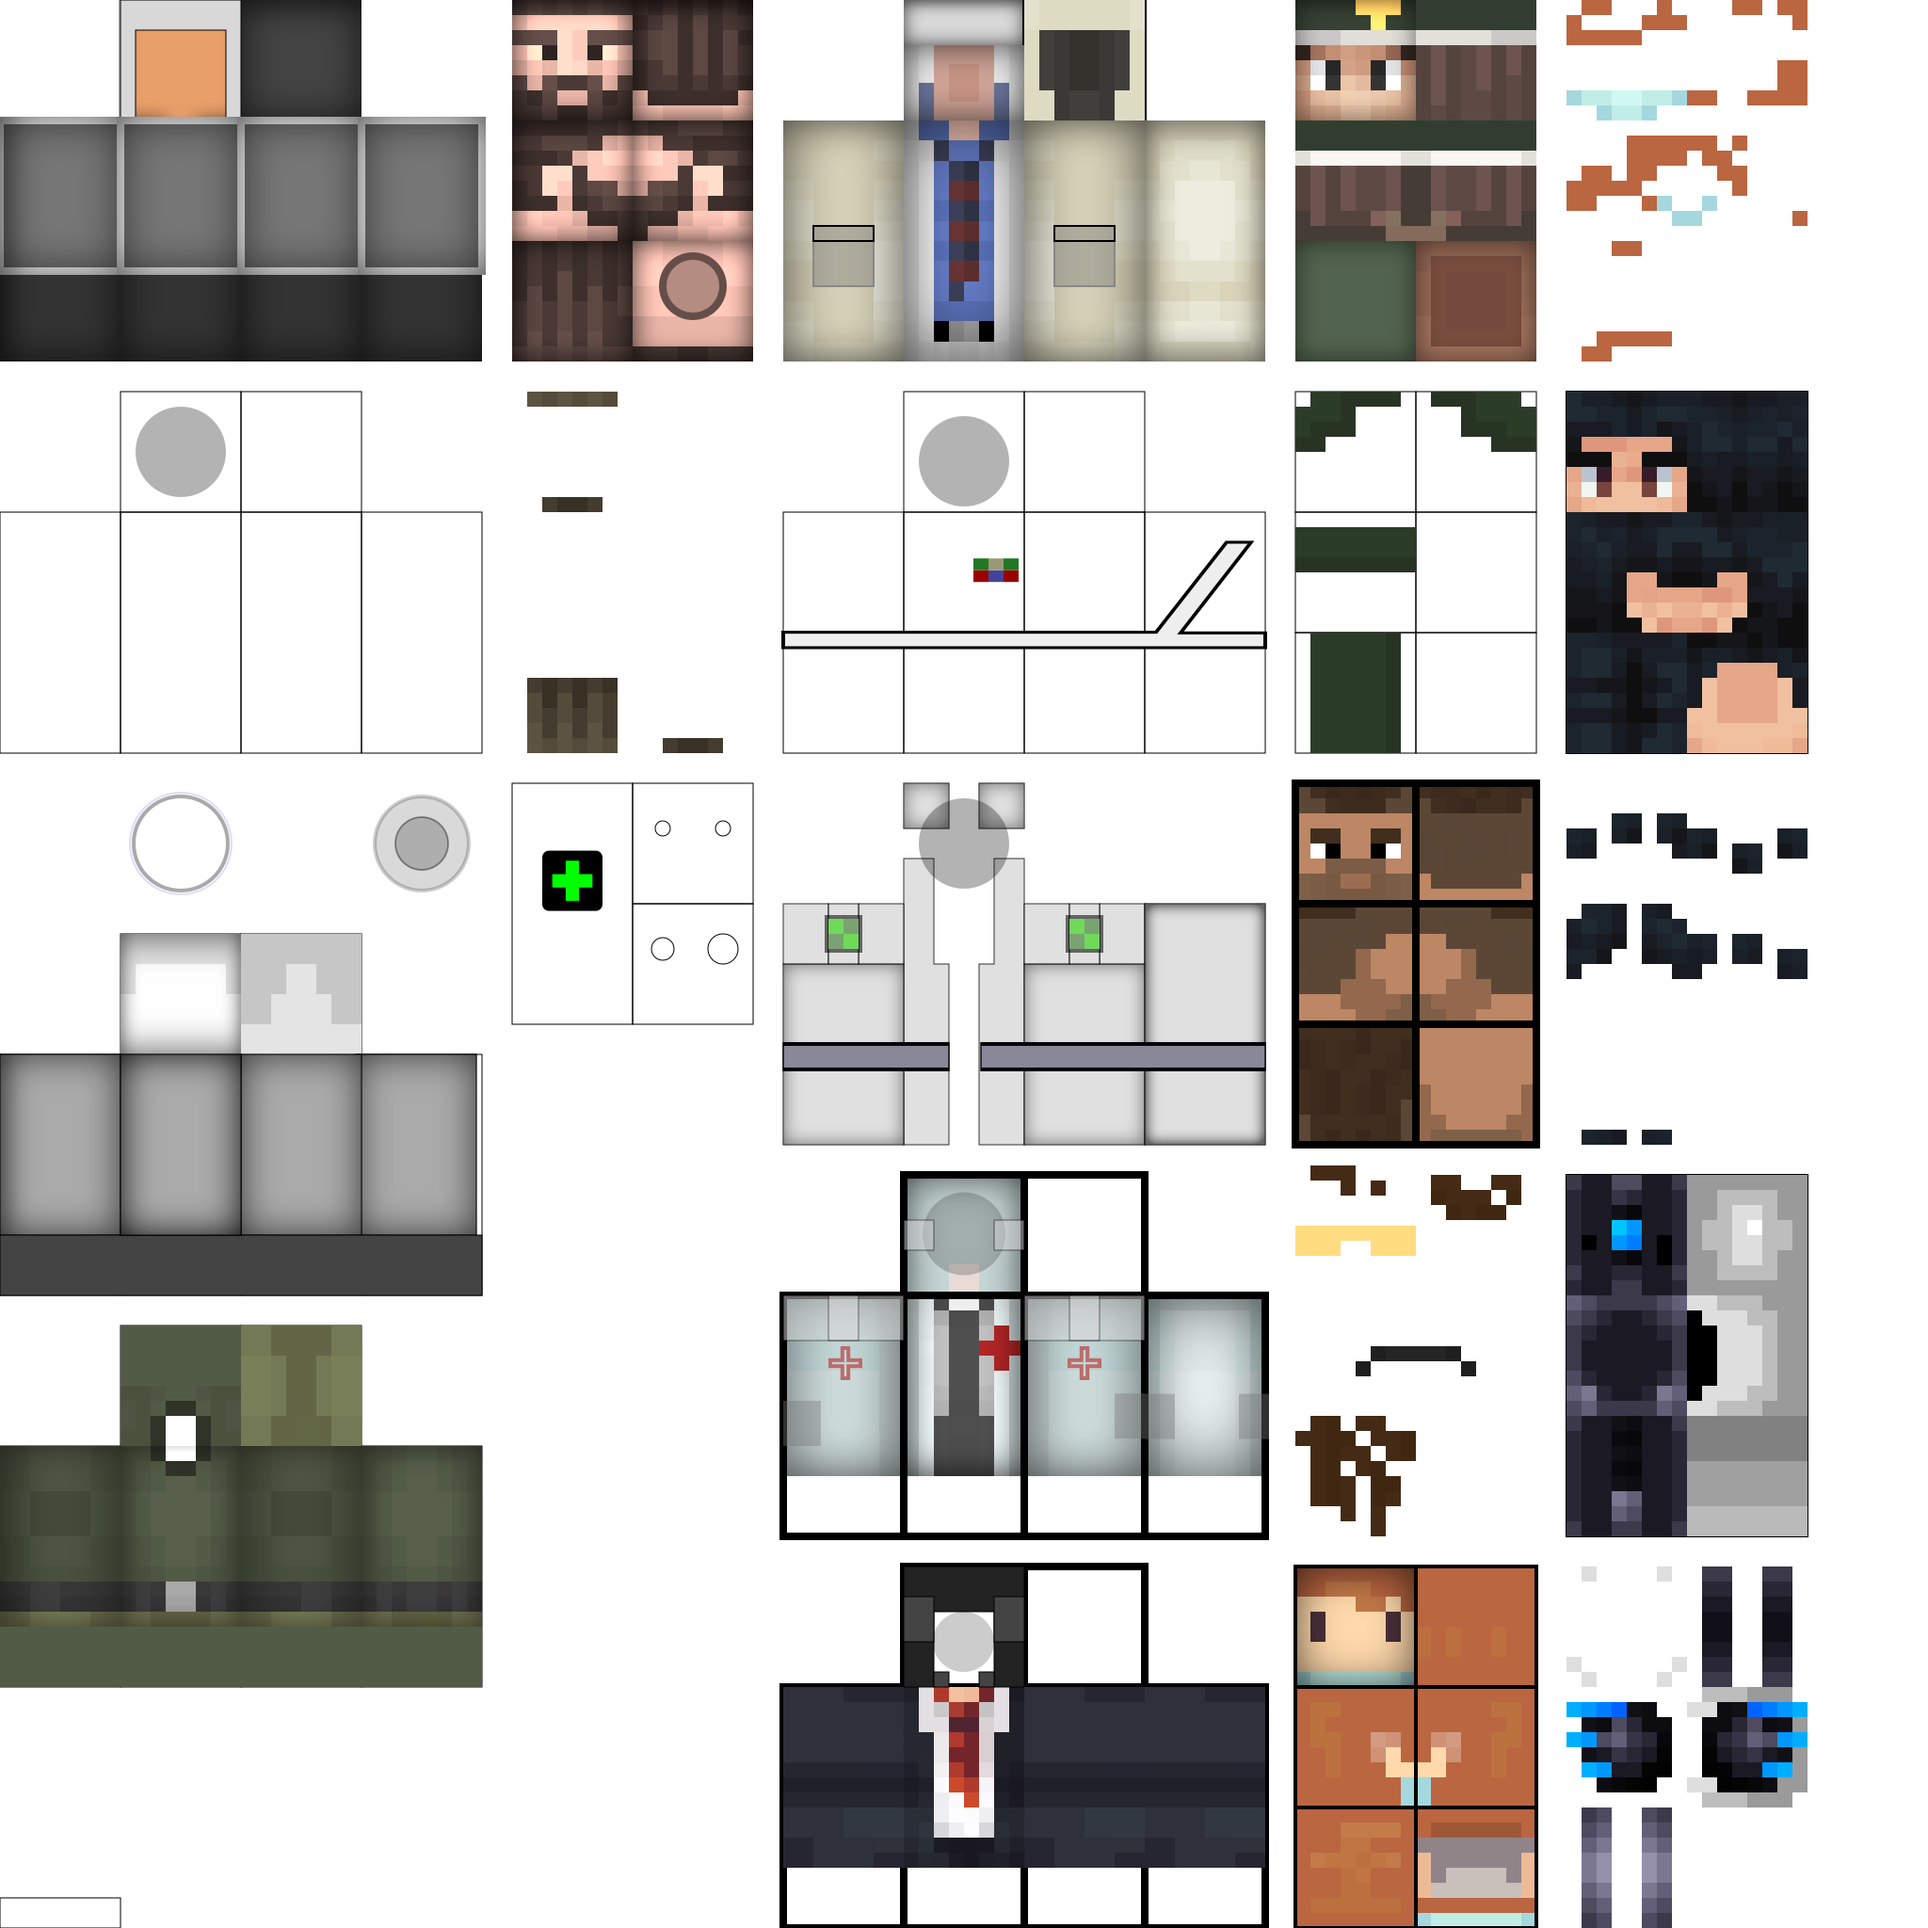
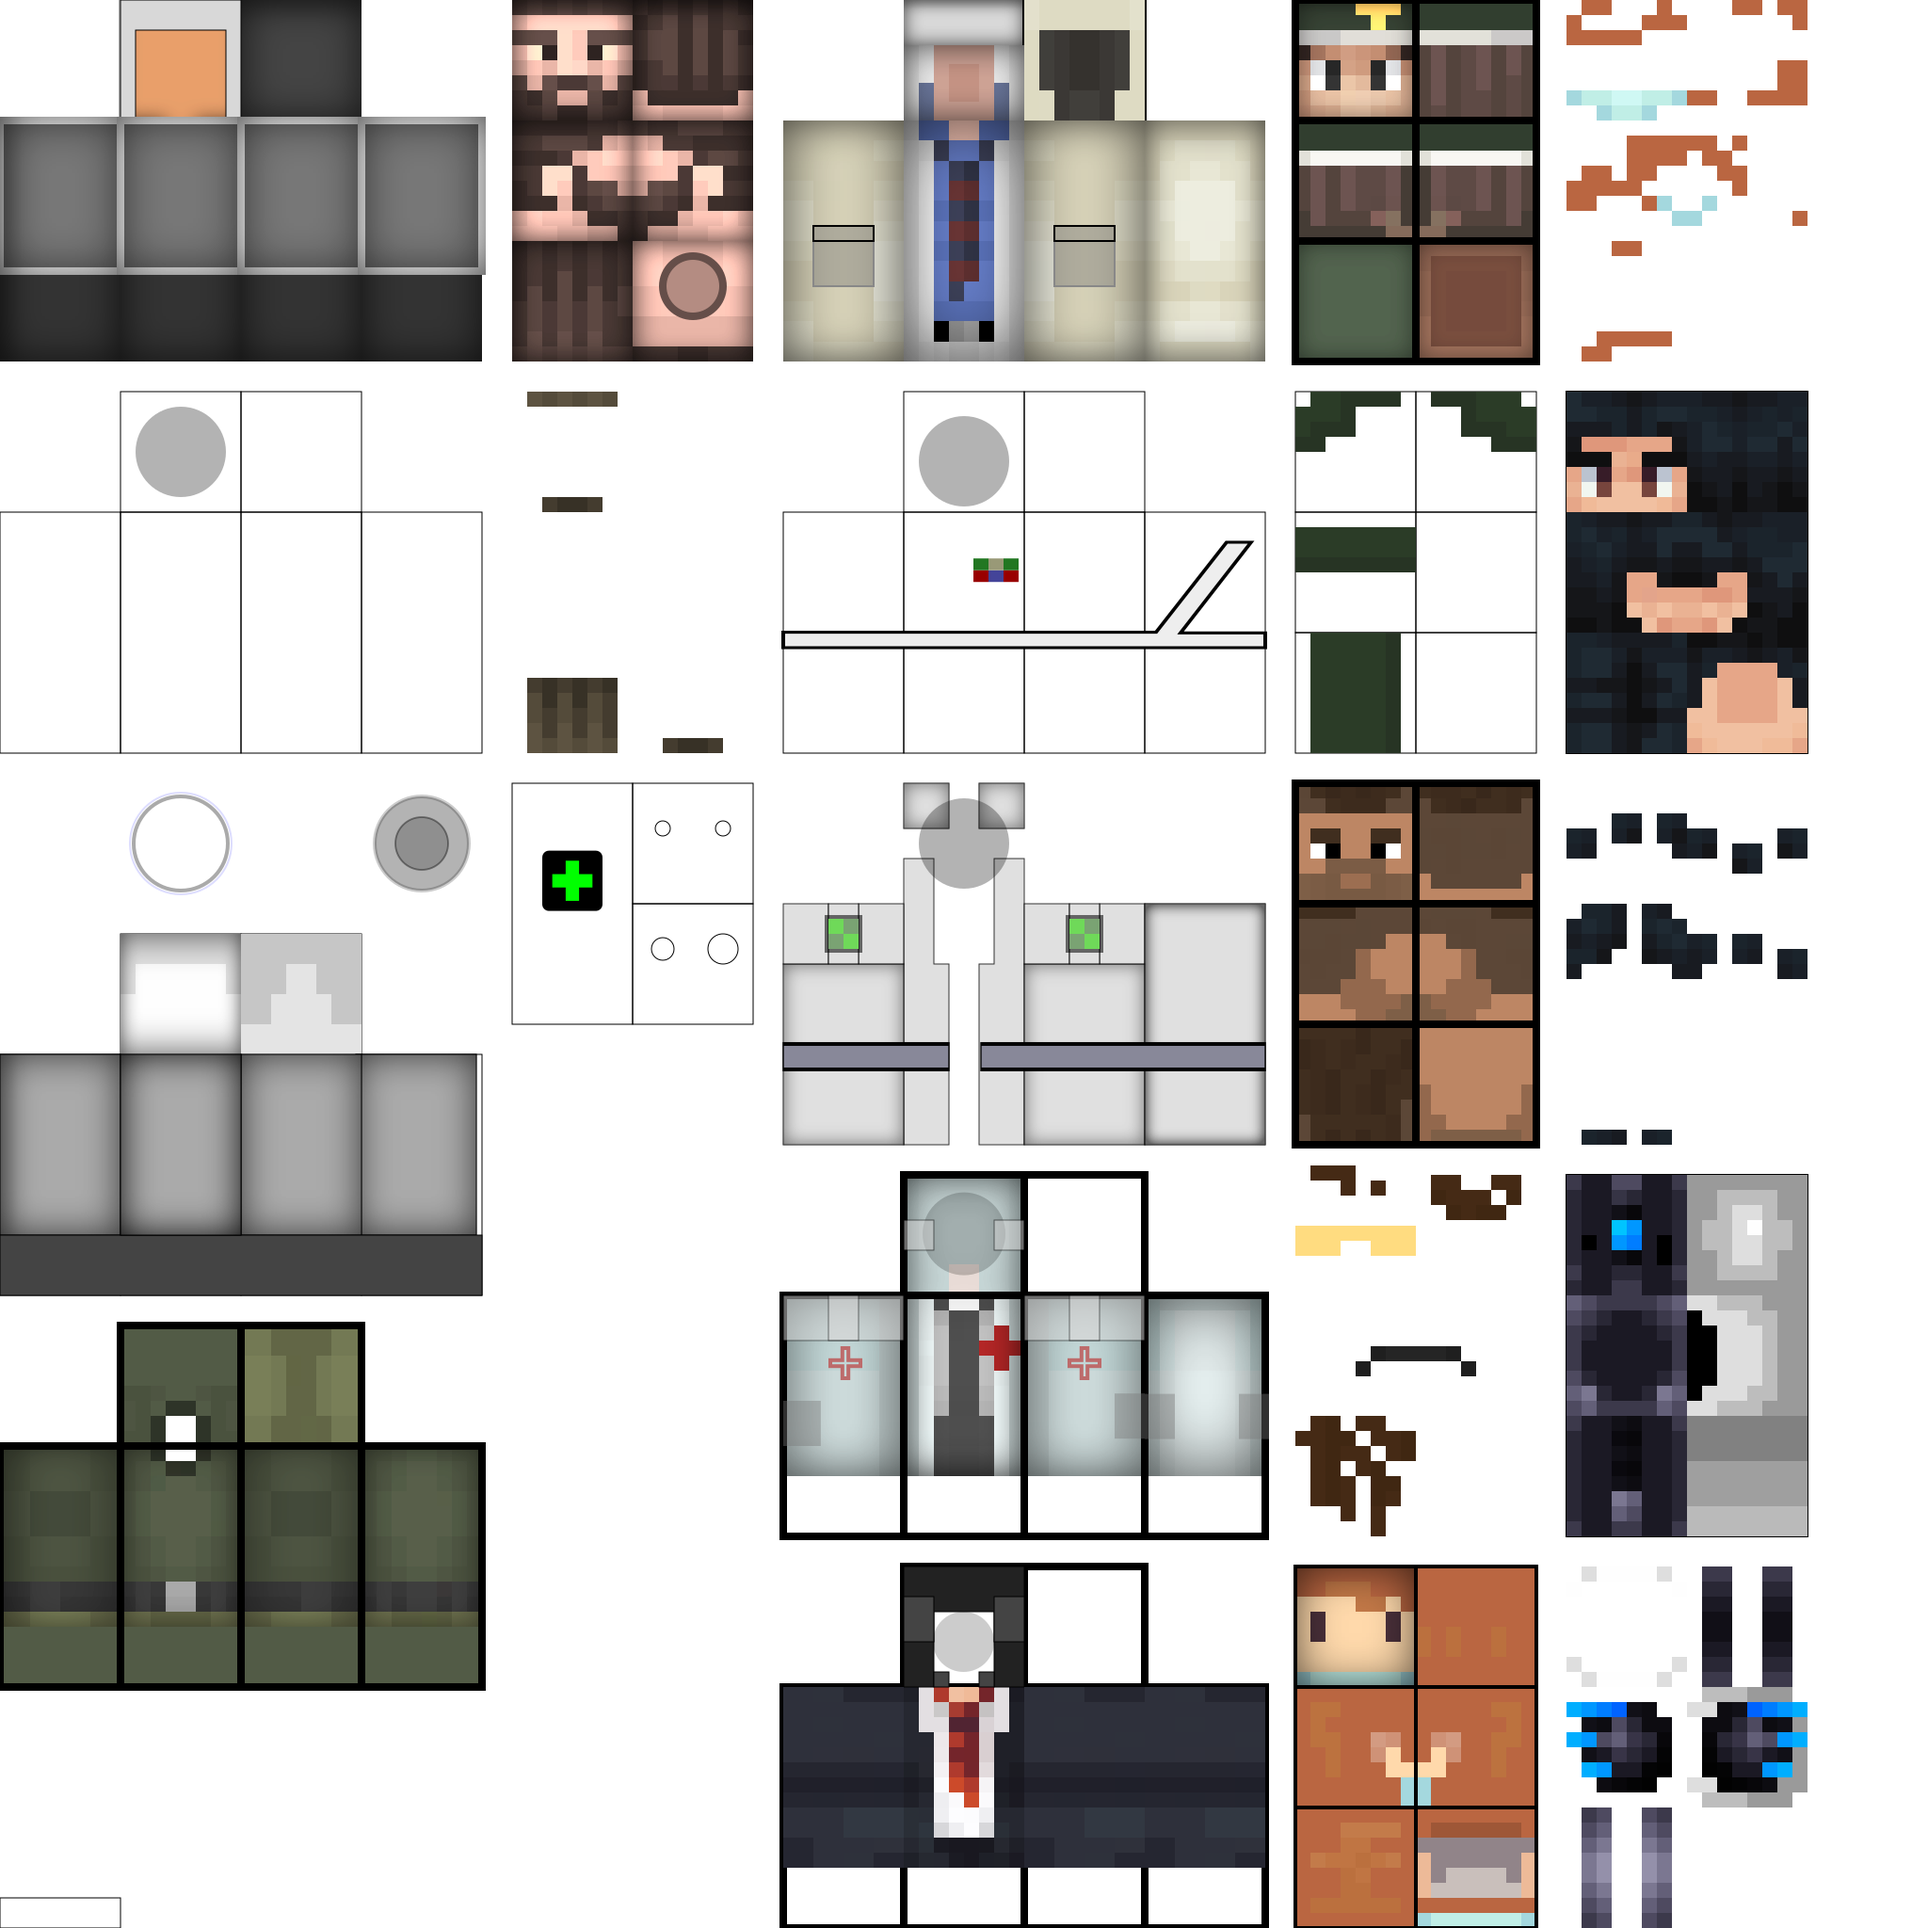
feat: higher contrast soldier-0; darker shadow

diff --git a/npc-cli/types/npc.d.ts b/npc-cli/types/npc.d.ts
@@ -173,6 +173,7 @@ declare namespace NPC {
   );
 
   type EnterDoorEvent = Extract<NPC.Event, { key: 'enter-door' }>;
+  type StoppedMovingEvent = Extract<NPC.Event, { key: 'stopped-moving' }>;
 
   type UpdatedGmDecorEvent = { key: "updated-gm-decor" } & (
     | { type: 'partial'; gmIds: number[]; } // partial <=> gmsIds.length did not change
